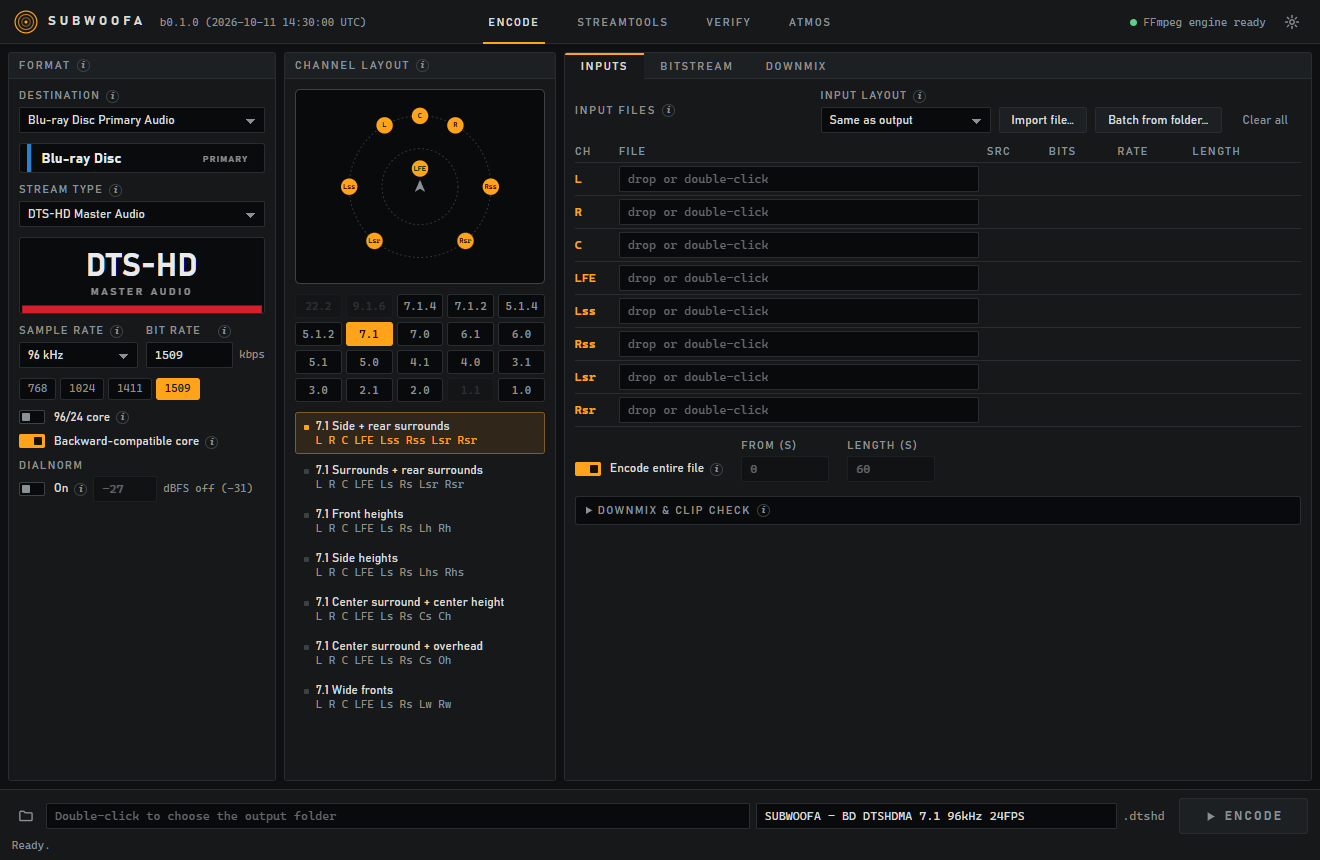
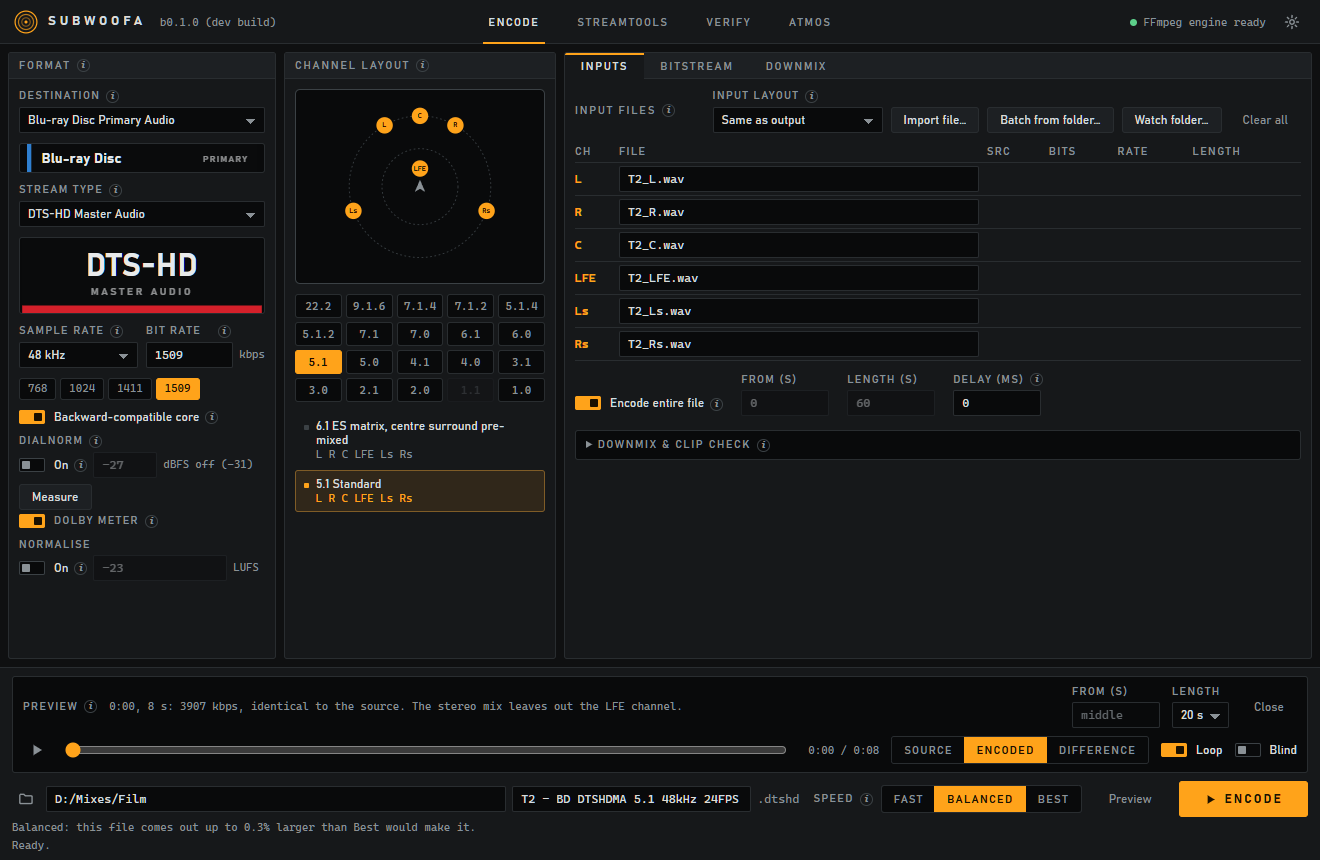
README screenshot of the current app; fix two cut-off texts (Dolby meter label, long layout variant names)

diff --git a/app/ui/style.css b/app/ui/style.css
@@ -200,7 +200,7 @@ input.bad { border-color: var(--bad); color: var(--bad); }
 .variants button:hover { background: var(--hi); }
 .variants button[aria-selected=true] { background: color-mix(in srgb, var(--lamp) 11%, var(--panel)); border-color: color-mix(in srgb, var(--lamp) 40%, var(--rule)); }
 .variants button[aria-selected=true]::before { background: var(--lamp); }
-.variants .vn { font: 12px var(--label); overflow: hidden; text-overflow: ellipsis; white-space: nowrap; }
+.variants .vn { font: 12px var(--label); }   /* a long name wraps rather than being cut off */
 .variants .vc { font: 11px var(--mono); color: var(--dim); overflow: hidden; text-overflow: ellipsis; white-space: nowrap; }
 .variants button[aria-selected=true] .vc { color: var(--lamp); }
 

diff --git a/app/ui/index.html b/app/ui/index.html
@@ -107,7 +107,7 @@ try {
           <small id="dialnormNote" class="readout">off (−31)</small>
           <button type="button" id="dialnormMeasure" class="mini">Measure</button>
         </div>
-        <label class="chk tight" id="dnDolbyWrap" hidden><input type="checkbox" id="dnDolby" checked><span>Dolby meter (finds the dialogue)</span></label>
+        <label class="chk tight" id="dnDolbyWrap" hidden><input type="checkbox" id="dnDolby" checked><span>Dolby meter</span></label>
         <small id="loudReadout" class="readout" hidden></small>
       </div>
       <div class="f">
